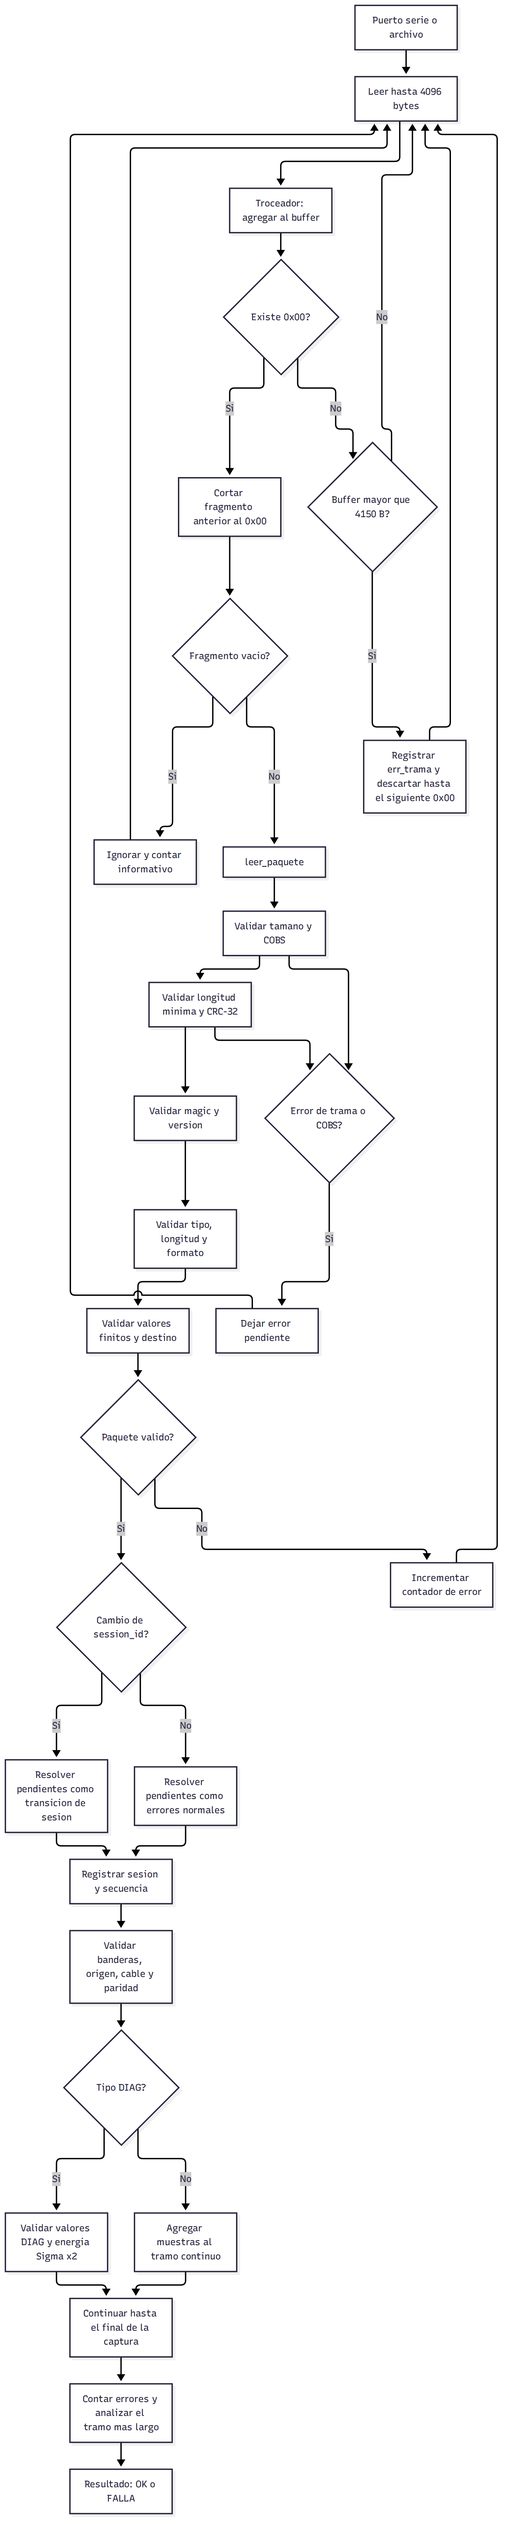
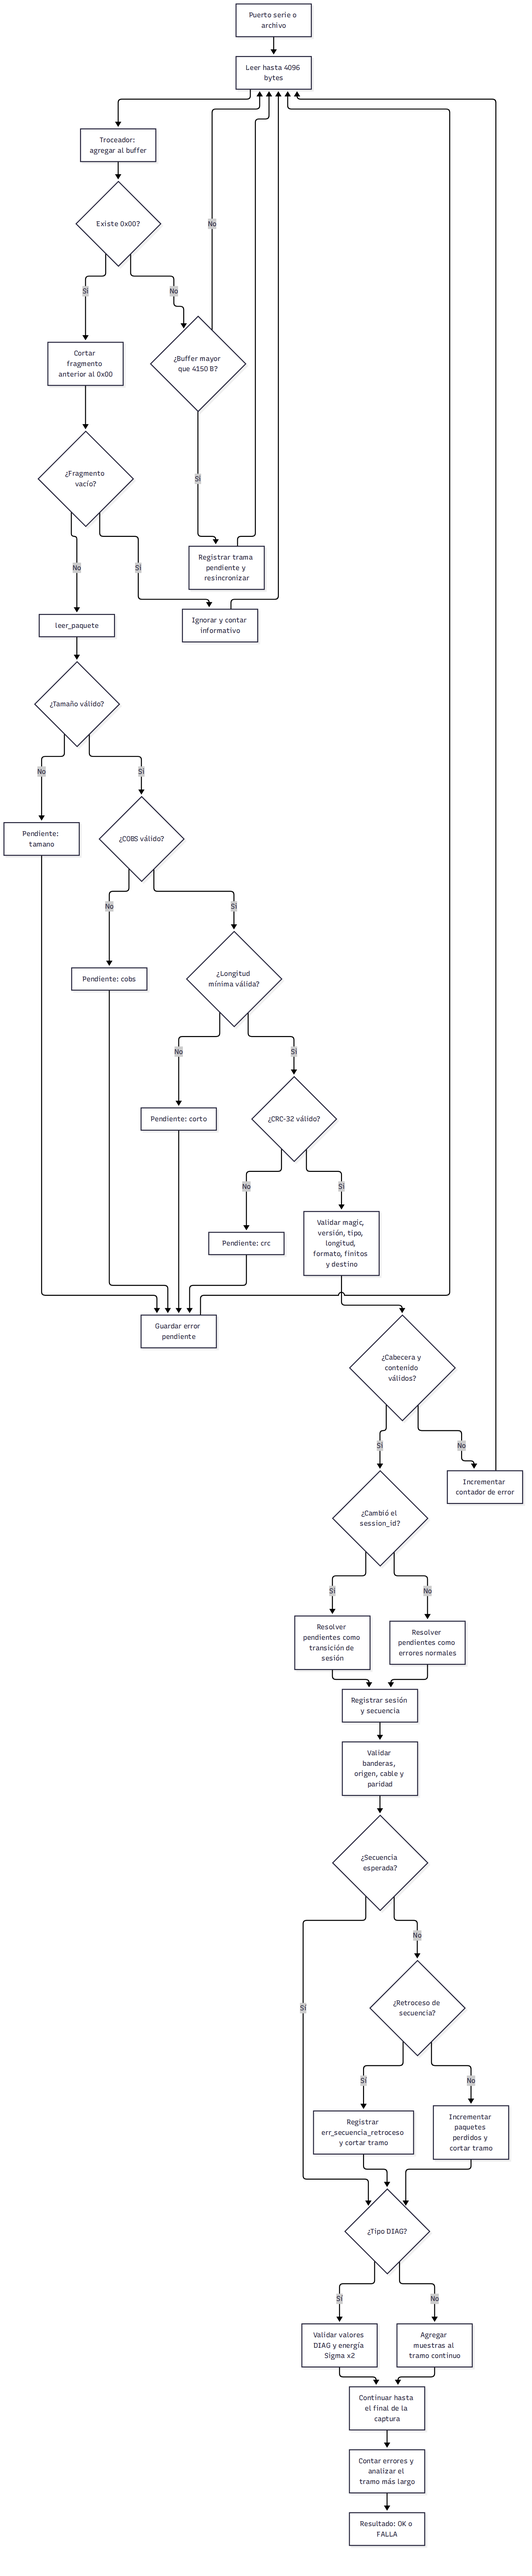
Mejora en diagramas

diff --git a/proyecto1/avance_s12/diagramas/diagramas_receptor.md b/proyecto1/avance_s12/diagramas/diagramas_receptor.md
@@ -1,26 +1,138 @@
-# Diagramas de validacion del receptor
+# Diagramas de validación del receptor
 
 
-Estos diagramas documentan la validacion en la PC del receptor del nodo 1. Se usaron las capturas reales `captura_n2.bin` y `captura_n3.bin`, sin depender de la simulacion ni de la placa durante el reprocesamiento.
+Estos diagramas documentan la validación en la PC del receptor del nodo 1. Se usaron las capturas reales `captura_n2.bin` y `captura_n3.bin`, sin depender de la simulación ni de la placa durante el reprocesamiento.
 
-## 1. Flujo de recepcion y validacion 
+## 1. Flujo de recepción y validación
 
-![Flujo de recepcion](flujo_recepcion.png)
+```mermaid
+flowchart TD
+    A[Puerto serie o archivo] --> B[Leer hasta 4096 bytes]
+    B --> C[Troceador: agregar al buffer]
+    C --> D{Existe 0x00?}
+    D -- No --> E{¿Buffer mayor que 4150 B?}
+    E -- No --> B
+    E -- Si --> F[Registrar trama pendiente y resincronizar]
+    F --> B
+    D -- Si --> G[Cortar fragmento anterior al 0x00]
+    G --> H{¿Fragmento vacío?}
+    H -- Si --> I[Ignorar y contar informativo]
+    H -- No --> J[leer_paquete]
+    J --> K{¿Tamaño válido?}
+    K -- No --> K1[Pendiente: tamano]
+    K -- Si --> L{¿COBS válido?}
+    L -- No --> L1[Pendiente: cobs]
+    L -- Si --> M{¿Longitud mínima válida?}
+    M -- No --> M1[Pendiente: corto]
+    M -- Si --> N{¿CRC-32 válido?}
+    N -- No --> N1[Pendiente: crc]
+    N -- Si --> O[Validar magic, versión, tipo, longitud, formato, finitos y destino]
+    K1 --> P[Guardar error pendiente]
+    L1 --> P
+    M1 --> P
+    N1 --> P
+    P --> B
+    O --> Q{¿Cabecera y contenido válidos?}
+    Q -- No --> R[Incrementar contador de error]
+    Q -- Si --> S{¿Cambió el session_id?}
+    S -- Si --> T[Resolver pendientes como transición de sesión]
+    S -- No --> U[Resolver pendientes como errores normales]
+    T --> V[Registrar sesión y secuencia]
+    U --> V
+    V --> W[Validar banderas, origen, cable y paridad]
+    W --> X{¿Secuencia esperada?}
+    X -- Sí --> Y{¿Tipo DIAG?}
+    X -- No --> Z{¿Retroceso de secuencia?}
+    Z -- Sí --> Z1[Registrar err_secuencia_retroceso y cortar tramo]
+    Z -- No --> Z2[Incrementar paquetes perdidos y cortar tramo]
+    Z1 --> Y
+    Z2 --> Y
+    Y -- Sí --> AA[Validar valores DIAG y energía Sigma x2]
+    Y -- No --> AB[Agregar muestras al tramo continuo]
+    AA --> AC[Continuar hasta el final de la captura]
+    AB --> AC
+    I --> B
+    R --> B
+    AC --> AD[Contar errores y analizar el tramo más largo]
+    AD --> AE[Resultado: OK o FALLA]
+```
 
-Los errores de tamaño, COBS, trama, longitud minima y CRC quedan pendientes hasta recibir un paquete valido. Si el `session_id` cambio, se registran como `errores_transicion_sesion`; de lo contrario, se suman a los errores que cuentan en la evaluación final.
+Los errores de tamaño, COBS, trama, longitud mínima y CRC quedan pendientes hasta recibir un paquete válido. Si el `session_id` cambió, se registran como `errores_transicion_sesion`; de lo contrario, se suman a los errores que cuentan en la evaluación final.
 
-La secuencia valida que cada paquete avance en uno. Un salto suma paquetes perdidos y corta el tramo continuo, un retroceso genera `err_secuencia_retroceso`. Los datos ocupan secuencias pares y DIAG secuencias impares. Una sesion nueva debe comenzar con `sequence = 0` para conservar la bandera de reinicio `0x0004`.
+La secuencia valida que cada paquete avance en uno. Un salto incrementa `paquetes_perdidos` y corta el tramo continuo; un retroceso genera `err_secuencia_retroceso` y también corta el tramo. Los datos ocupan secuencias pares y DIAG secuencias impares. Una sesión nueva debe comenzar con `sequence = 0` para conservar la bandera de reinicio `0x0004`.
 
-## 2. Validacion del contenido
+## 2. Validación del contenido
 
-![Validacion del contenido](validacion_contenido.png)
+```mermaid
+flowchart TD
+  A[Tramo continuo más largo de una sesión] --> B[Recortar a segundos enteros]
+  B --> C[Convertir muestras a float64]
+  C --> D[Aplicar ventana de Hann periódica]
+  D --> E[Calcular FFT real]
+  E --> F[Buscar 4 máximos locales separados al menos 20 Hz]
+  F --> G[Comparar frecuencias con tolerancia de +/- 1 Hz]
+  G --> H[300, 700, 1100 y 2150 Hz]
+  H --> I[Comparar niveles relativos]
+  I --> J[-1.44, -6.63, -11.90 y 0.00 dB, tolerancia +/- 0.5 dB]
+  J --> K{Enlace N3?}
+  K -- Sí --> L[Calcular SNR de x y s]
+  L --> M[Esperar 0.000 +/- 0.2 dB]
+  K -- No --> N[No calcular SNR]
+  M --> O{Todas las validaciones pasan?}
+  N --> O
+  O -- Sí --> P[Análisis PASS]
+  O -- No --> Q[Agregar falla al resultado]
+```
 
-Se prueba un enlace a la vez. Para N2 se usa GPIO18 y se selecciona `--enlace n2`; para N3 se usa GPIO17 y se selecciona `--enlace n3`. Las capturas documentadas aqui se procesaron desde archivo, por lo que no fue necesario montar el circuito.
+Los niveles relativos se comparan con una tolerancia de ±0.5 dB. En N3, el SNR se calcula como:
+
+$$
+SNR = 10\log_{10}\left(\frac{\sum s^2}{\sum (x-s)^2}\right)
+$$
+
+## 3. Montaje de prueba
+
+```mermaid
+flowchart LR
+  ESP[ESP32 nodo 1]
+  PC[PC]
+  CON[Consola del nodo 1\n/dev/ttyUSB0]
+  REC[receptor_nodo1.py\n/dev/ttyUSB1]
+  YP[Adaptador YP-05\nRX conectado]
+
+  ESP -- USB --> CON
+  ESP --> N2[Alternativa N2: GPIO18 al RX]
+  ESP --> N3[Alternativa N3: GPIO17 al RX]
+  N2 -. usar solo una .-> YP
+  N3 -. usar solo una .-> YP
+  YP -- USB --> REC
+  PC --- CON
+  PC --- REC
+
+  CFG[YP-05: jumper en 3.3 V\nGND común con ESP32\nTX del YP-05 sin conectar\nVCC sin conectar\nUsar solo N2 o solo N3]
+  YP --- CFG
+```
+
+Se prueba un solo enlace a la vez. Para N2 se conecta GPIO18 al RX del YP-05 y se selecciona
+`--enlace n2`; para N3 se usa GPIO17 y se selecciona `--enlace n3`. Las
+conexiones GPIO18 y GPIO17 son alternativas, no simultáneas. Las capturas
+documentadas aquí se procesaron desde archivo, por lo que no fue necesario
+montar el circuito.
 
 ## 4. Resultados de las capturas
 
-![Resultados de las capturas](resultados_capturas.png)
-
+```mermaid
+flowchart TD
+  A[Captura N3] --> B[1855 paquetes validos]
+  B --> C[0 errores y 0 perdidos]
+  C --> D[2 sesiones y 1 transicion informativa]
+  D --> E[4 picos PASS y SNR +0.000 dB PASS]
+  E --> F[RESULTADO: OK]
+  G[Captura N2] --> H[1875 paquetes validos]
+  H --> I[0 errores y 0 perdidos]
+  I --> J[4 picos PASS]
+  J --> K[RESULTADO: OK]
+```
 
 
 | Enlace | Paquetes validos | Errores | Perdidos | Sesiones | Transiciones | Picos | SNR | Resultado |

diff --git a/proyecto1/documentos/estado_proyecto.md b/proyecto1/documentos/estado_proyecto.md
@@ -90,7 +90,7 @@ Valores clave que salieron de la simulación:
 | Paso 5 — DFT directa contra FFT (N = 1024) y tabla de costo computacional, memoria y latencia de cada método | Implementado y verificado en `simulacion-dft`: 207 pruebas pasan y resultados generados; cambios locales revisados, pendientes de commit, push y PR |
 | Paso 6 — un solo script que genera todas las figuras y tablas (incluye polos y ceros y la respuesta en frecuencia del nodo 2) | Pendiente |
 | PDF del avance: proceso de diseño, criterios y discusión | **Sin responsable** |
-| Diagramas de validación del receptor: flujo de recepción, validación del contenido y montaje a partir de las capturas guardadas | Completado en `avance-diagramas`: cuatro diagramas Mermaid, tabla y salidas completas de N2 y N3, ambas capturas terminaron en `RESULTADO: OK` |
+| Diagramas de validación del receptor: flujo de recepción, validación del contenido y montaje a partir de las capturas guardadas | Completado en `avance-diagramas`: cuatro diagramas Mermaid, tabla y salidas completas de N2 y N3. Se ejecutaron `python proyecto1/herramientas_pc/receptor_nodo1.py --archivo proyecto1/herramientas_pc/capturas/captura_n3.bin --enlace n3` y el comando equivalente con `captura_n2.bin --enlace n2`; ambas capturas terminaron en `RESULTADO: OK` |
 | Entrega: zip en TEC-Digital, PR `development` → `main` y tag `avance_s12` (ver `guia_git.md`) | Pendiente |
 
 Material para el PDF que ya existe: el plan de frecuencias (justificación de fs, N, bandas y filtros), los resultados de la cadena analógica y del nodo 2 de arriba, y la salida del receptor de la PC como evidencia del emisor.
